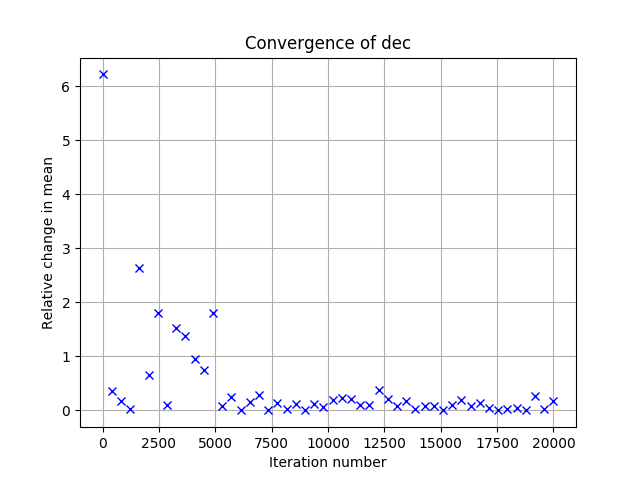
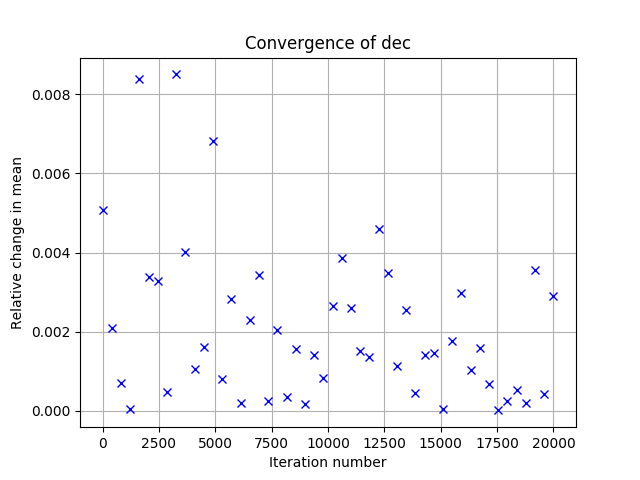
Convergence plots with absolute change

diff --git a/Inference/convergence.py b/Inference/convergence.py
@@ -45,7 +45,7 @@ def findMeans(parameter):
       lower=np.mean(lower) ## Mean of earlier it
       upper=np.mean(upper) ## Mean of later it
       print lower
-      means[aa]=abs(lower-upper)/abs(lower) ## Relative change in mean
+      means[aa]=abs(lower-upper) ## Relative change in mean
    ## Plot results
    savename=folder+parameter
    plt.figure()
